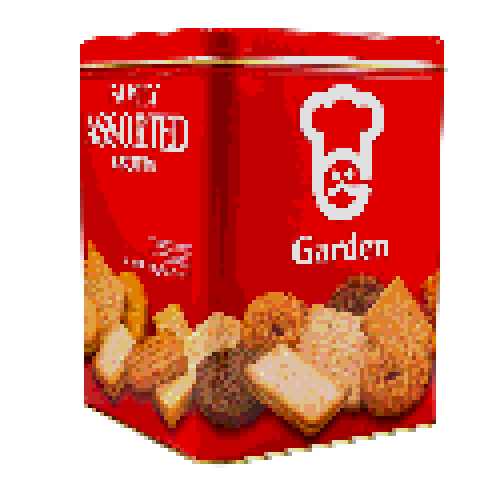
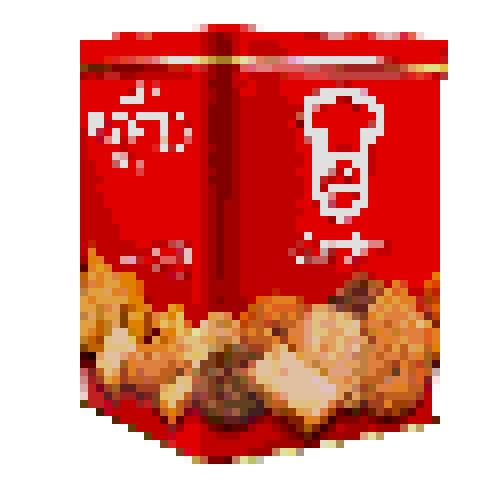
Clicker save session works

Changed region(s): [[0.15, 0.03, 0.9, 0.93], [0.21, 0.39, 0.24, 0.45]]

diff --git a/src/components/RedPacketClicker.js b/src/components/RedPacketClicker.js
@@ -8,33 +8,40 @@ import { AUTH } from '../lib/auth';
 
 export default function RedPacketClicker() {
   const [userData, setUserData] = useState(null);
+  const [clicks, setClicks] = useState(0);
 
-  const pk = AUTH.getPayload().sub;
-
-  let click = 0;
+  const id = AUTH.getPayload().sub;
 
   useEffect(() => {
-    API.GET(API.ENDPOINTS.singlePocket(pk)).then(({ data }) =>
-      setUserData(data)
-    );
-  }, [pk]);
-
-  // const apiReqBody = {
-  //   ...userData,
-  //   number_of_red_packets: click
-  // };
+    API.GET(API.ENDPOINTS.singlePocket(id)).then(({ data }) => {
+      setUserData(data);
+    });
+  }, [id, userData?.number_of_red_packets]);
 
   const handleClick = (e) => {
+    setClicks((click) => (click += 1));
+    localStorage.setItem('number_of_red_packets', clicks);
+    console.log(clicks);
+  };
+
+  // console.log(userData);
+
+  const handleSubmit = (e) => {
     e.preventDefault();
-    click += 1;
-    console.log(click);
-    localStorage.setItem('number_of_red_packets', click);
-
-    const apiReqBody = {
-      number_of_red_packets: localStorage.getItem('number_of_red_packets')
-    };
-
-    API.PUT(API.ENDPOINTS.singlePocket(pk), apiReqBody, API.getHeaders());
+    try {
+      const existing_red_packets = userData?.number_of_red_packets;
+      const new_number_of_red_packets = existing_red_packets + clicks;
+      const apiReqBody = {
+        number_of_red_packets: new_number_of_red_packets
+      };
+      API.PUT(
+        API.ENDPOINTS.singlePocket(userData?.id),
+        apiReqBody,
+        API.getHeaders()
+      ).then(window.location.reload());
+    } catch (e) {
+      console.error(e);
+    }
   };
 
   return (
@@ -50,6 +57,16 @@ export default function RedPacketClicker() {
         </div>
         <div className='user-info-div'>
           <UserInfoInClicker />
+          <h3>
+            Red Packets earned this session:{' '}
+            {localStorage.getItem('number_of_red_packets', clicks)}
+          </h3>
+          <h3>
+            Red Packets earned in previous sessions:{' '}
+            {userData?.number_of_red_packets}
+          </h3>
+
+          <button onClick={handleSubmit}>Save Your Session</button>
         </div>
         <div className='comments-div'>
           <Comments />

diff --git a/src/components/UserInfoInClicker.js b/src/components/UserInfoInClicker.js
@@ -2,12 +2,12 @@ import { useState, useEffect } from 'react';
 import { API } from '../lib/api';
 import { AUTH } from '../lib/auth';
 
-export default function User() {
+export default function User({ redpackets }) {
   const [userData, setUserData] = useState(null);
 
   const id = AUTH.getPayload().sub;
 
-  console.log(id);
+  // console.log(id);
 
   useEffect(() => {
     API.GET(API.ENDPOINTS.singlePocket(id))
@@ -17,14 +17,13 @@ export default function User() {
       .catch(({ message, response }) => {
         console.error(message, response);
       });
-  }, [id]);
+  }, [id, redpackets]);
 
-  console.log(userData);
+  // console.log(userData);
 
   return (
     <>
       <h2>{userData?.owner.username}'s Progress</h2>
-      <p>No. of red packets: {userData?.number_of_red_packets}</p>
       <ul>
         Items owned:{' '}
         {userData?.items.map((item) => (

diff --git a/src/components/Items.js b/src/components/Items.js
@@ -1,6 +1,8 @@
 import { useState, useEffect } from 'react';
 import { API } from '../lib/api';
 import ItemImage from './ItemImage';
+import gardenBiscuits from '../assets/8-bit-garden-biscuits.png';
+import '../styles/Items.scss';
 
 export default function Items() {
   const [items, setItems] = useState(null);
@@ -24,7 +26,8 @@ export default function Items() {
           <div key={item.name}>
             <h3>{item.name}</h3>
             <p>{item.description}</p>
-            <ItemImage cloudinaryImageId={item.item_image} />
+            {/* <ItemImage cloudinaryImageId={item.item_image} /> */}
+            <img src={gardenBiscuits} className='item-image'></img>
           </div>
         </>
       ))}

diff --git a/src/styles/RedPacketClicker.scss b/src/styles/RedPacketClicker.scss
@@ -9,8 +9,8 @@
   }
 
   .red-packet-clicker-button {
-    border: 1px red solid;
     cursor: pointer;
+    height: 350px;
   }
 
   .red-packet-clicker-button:active {

diff --git a/src/styles/Items.scss b/src/styles/Items.scss
@@ -1,0 +1,3 @@
+.item-image {
+  height: 120px;
+}
